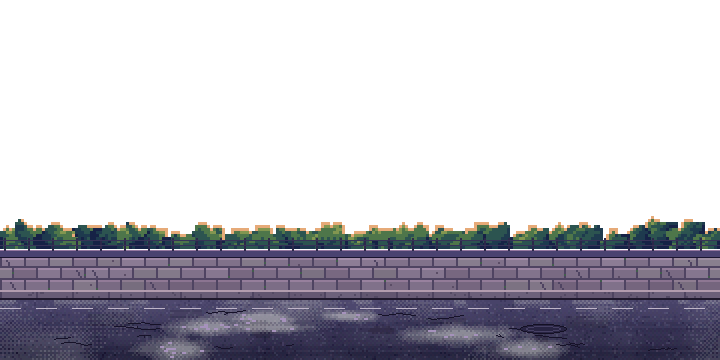
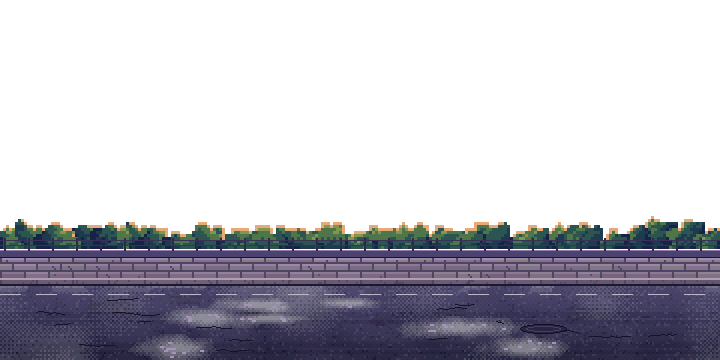
Narrower, foreshortened sidewalk
The pavement was 42px deep with near-equal slab rows, which read as a
view from above. It is now 22px (rows 6/8/8px, far row smallest) with
the kerb at y 280 and the street from y 286, matching the low side view.

Claude-Session: https://claude.ai/code/session_011NAKRUA9btL4iodwTEM3Dh

Changed region(s): [[0.0, 0.7028, 1.0, 0.9778], [0.7333, 0.9167, 0.7944, 0.9778], [0.1222, 0.9472, 0.1528, 0.9778]]

diff --git a/tools/compose_sunset_scene.py b/tools/compose_sunset_scene.py
@@ -55,8 +55,8 @@ TRAIN_BLOCK = 2                     # train: 2x2 game pixels per art pixel
 SUN_X, SUN_Y = 248, 150             # sun centre in the sky layer (its sprite sits at x -48)
 MIRROR = 1.6                        # reflection squash: we look down at the road
 ROAD_TOP = 258                      # first row of the ground (sidewalk) in screen space; reflections mirror here
-KERB_Y = 292                        # sidewalk ends: kerb face from here down to the street
-STREET_TOP = 300                    # first row of asphalt
+KERB_Y = 280                        # sidewalk ends: kerb face from here down to the street
+STREET_TOP = 286                    # first row of asphalt
 BAYER = np.array([[0, 8, 2, 10], [12, 4, 14, 6], [3, 11, 1, 9], [15, 7, 13, 5]]) / 16.0
 rng = random.Random(5)
 
@@ -477,7 +477,7 @@ def sidewalk(block=2):
     grout, moss = (72, 60, 92, 245), (58, 86, 70, 245)
     y = ROAD_TOP // block
     rows = []
-    for k, rh in enumerate((5, 6, 6)):                 # slab rows, far to near
+    for k, rh in enumerate((3, 4, 4)):                 # slab rows, far to near (foreshortened)
         rows.append((y, y + rh - 1, k))
         y += rh
     for y0, y1, k in rows:

diff --git a/README.md b/README.md
@@ -49,7 +49,7 @@ assets/textures/         texture พิกเซลสำหรับฉาก H
 - เติมแนวพุ่มไม้เงาเข้มไว้หลังชั้นทางรถไฟ (`railway_fill`) ไม่ให้เห็นท้องฟ้าใต้ต้นไม้
 - วาดรถไฟฟ้าพิกเซล 4 ตู้ (พิกเซล 2x2) สีขาว/น้ำเงิน/เส้นแดง หน้ารถสีดำ (`make_train`) ล้อวางบนรางหน้าพอดี อยู่ในชั้นของตัวเอง (`TrainLayer`, ความเร็ว parallax เท่าทางรถไฟ ไม่วาดซ้ำ)
   วิ่งผ่านจอจากนอกจอซ้ายไปพ้นจอขวา (`across_screen` ใน `train.gd`)
-- ตัวละครเดินบนทางเท้า (`sidewalk`, พิกเซล 2x2): แผ่นคอนกรีตเรียงสลับ (แถวไกลเล็กกว่า) มีรอยแตก คราบ มอสตามร่อง
+- ตัวละครเดินบนทางเท้า (`sidewalk`, พิกเซล 2x2): แผ่นคอนกรีตเรียงสลับ 3 แถว (แถวไกลบีบเล็กกว่า ทางเท้าแคบเพราะมองจากด้านข้าง) มีรอยแตก คราบ มอสตามร่อง
   แผ่นที่ชื้นเห็นเงาสะท้อนนิดเดียว ขอบทางเท้าเป็นปูนเปลือยลงไปที่ถนน; เงาสะท้อนตัวละครจางและสั้นเพราะทางเท้าไม่ค่อยสะท้อน
 - วาดถนนยางมะตอย (`road_surface`, พิกเซล 2x2) มีเม็ดหิน รอยปะ คราบน้ำมัน รอยล้อ รอยร้าว ความเปียกไล่ระดับแบบ dither จากแห้งไปแอ่งน้ำ (แอ่งลึกสุดยังเห็นยางมะตอยครึ่งหนึ่ง มีประกายระลอกน้ำ ไม่ใสเป็นกระจก), เงาท้องฟ้า+ทางรถไฟ, เงาสะท้อนรถไฟที่วิ่งตาม (`scripts/follow_x.gd`)
   และเงาสะท้อนตัวละครแบบกลับหัวมีระลอกน้ำ (`shaders/water_reflection.gdshader`)
